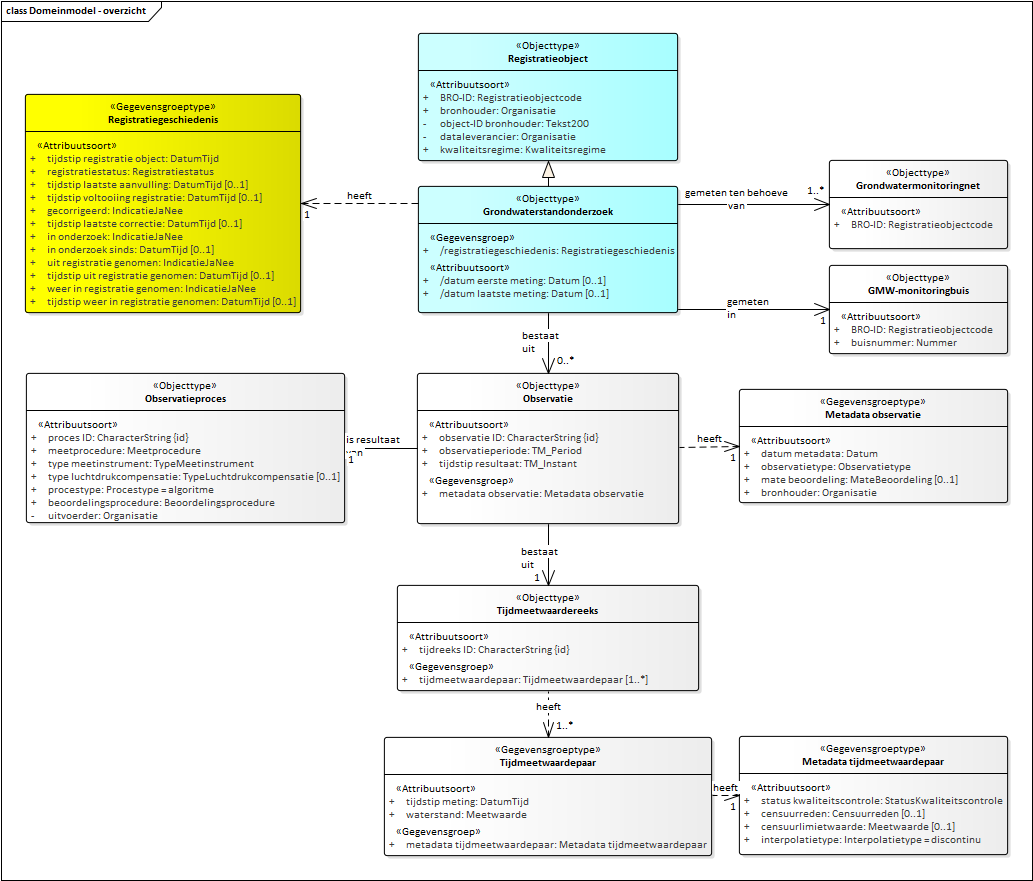
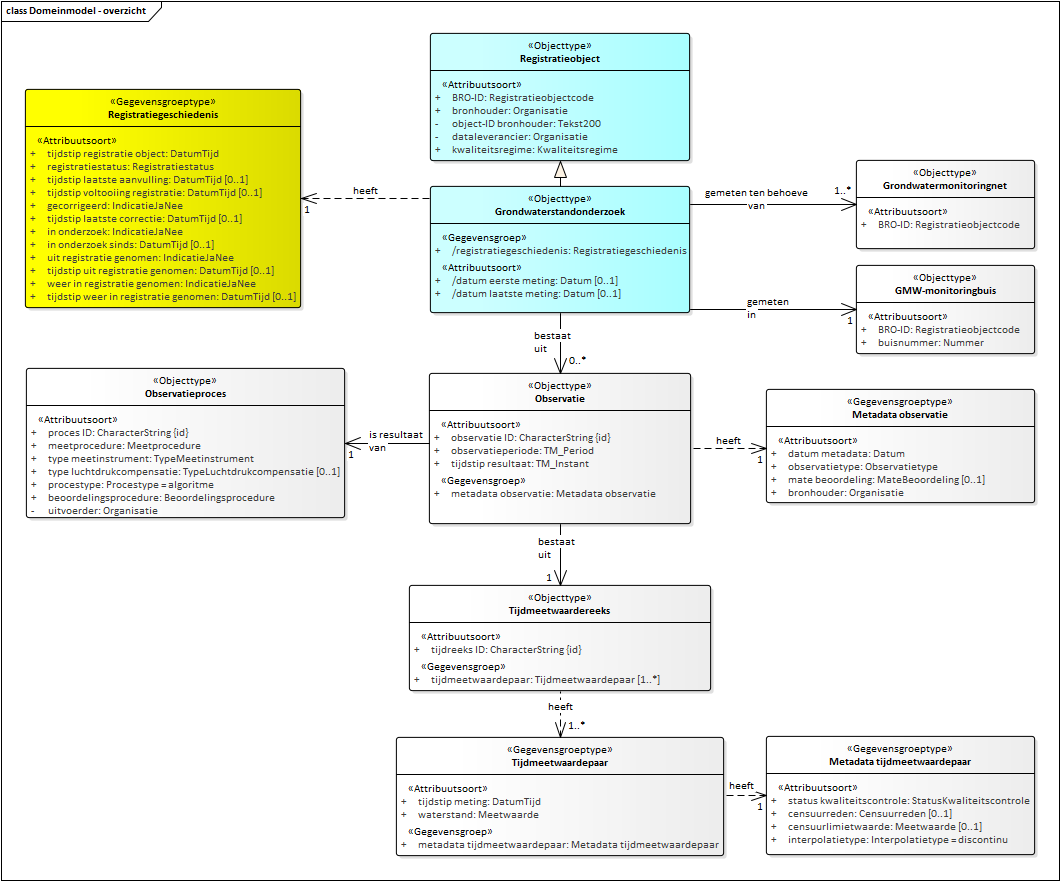
Conceptualmodel-GrondwaterstandonderzoekGLD-0.9-3-20191003-20191022-144403

diff --git a/data/GLD-cat.msword.html b/data/GLD-cat.msword.html
@@ -13,7 +13,7 @@
    <body>
       <p>Conceptual model/Grondwaterstandonderzoek (GLD)/20191003</p>
       <p>Imvertor: 1.55.2</p>
-      <p>Model release: Conceptualmodel-GrondwaterstandonderzoekGLD-0.9-3-20191003-20191022-141215</p>
+      <p>Model release: Conceptualmodel-GrondwaterstandonderzoekGLD-0.9-3-20191003-20191022-144403</p>
       <hr>
       <section>
          <h1>Artikel 1 Definitie van registratieobject, entiteiten en attributen</h1>
@@ -3288,17 +3288,17 @@
       <section id="" level="3">
          <h1>Artikel 3 Het domeinmodel</h1>
          <div class="imageinfo overview"><img src="Images/EAID_08E27657_5603_4b75_BB8B_47B282A97D63.png" usemap="#imagemap-EAID_08E27657_5603_4b75_BB8B_47B282A97D63"><map name="imagemap-EAID_08E27657_5603_4b75_BB8B_47B282A97D63">
-               <area shape="rect" coords="26,523,345,373" alt="" href="#graph_EAID_60FD1126_3C17_4798_955B_1E516F7A0B33">
-               <area shape="rect" coords="739,855,1008,736" alt="" href="#graph_EAID_734CD3EC_5E0A_4b12_89F5_AF8104ECF41F">
-               <area shape="rect" coords="397,691,699,585" alt="" href="#graph_EAID_590167CC_D7A2_4abb_8672_8592B1DF1842">
-               <area shape="rect" coords="417,524,679,373" alt="" href="#graph_EAID_665112EA_A39D_4ff0_BC95_CDDD3C5314EE">
-               <area shape="rect" coords="829,249,1008,160" alt="" href="#graph_EAID_68FD3B87_BA7B_485e_A5DC_4804CB98C818">
-               <area shape="rect" coords="384,856,712,737" alt="" href="#graph_EAID_5FC959F0_5ED2_47e7_8C6C_68C408128425">
-               <area shape="rect" coords="25,313,301,94" alt="" href="#graph_EAID_0D009A59_1E9A_4fc2_867A_9006A9464AA7">
-               <area shape="rect" coords="739,503,1008,389" alt="" href="#graph_EAID_2931B2EB_8861_47e1_B587_ADACE12C97F7">
-               <area shape="rect" coords="829,354,1008,265" alt="" href="#graph_EAID_3337CDCE_0A5D_4aee_AEB0_14AF7652B102">
-               <area shape="rect" coords="418,313,678,186" alt="" href="#graph_EAID_5876720F_795D_40b5_82B8_BC782B71FA3A">
-               <area shape="rect" coords="418,161,678,33" alt="" href="#graph_EAID_04FC4CF0_BE4E_421a_A62C_E3F00BED26A0"></map><p><b>Domeinmodel</b></p>
+               <area shape="rect" coords="26,518,345,368" alt="" href="#graph_EAID_60FD1126_3C17_4798_955B_1E516F7A0B33">
+               <area shape="rect" coords="766,855,1035,736" alt="" href="#graph_EAID_734CD3EC_5E0A_4b12_89F5_AF8104ECF41F">
+               <area shape="rect" coords="409,691,711,585" alt="" href="#graph_EAID_590167CC_D7A2_4abb_8672_8592B1DF1842">
+               <area shape="rect" coords="429,524,691,373" alt="" href="#graph_EAID_665112EA_A39D_4ff0_BC95_CDDD3C5314EE">
+               <area shape="rect" coords="856,249,1035,160" alt="" href="#graph_EAID_68FD3B87_BA7B_485e_A5DC_4804CB98C818">
+               <area shape="rect" coords="396,856,724,737" alt="" href="#graph_EAID_5FC959F0_5ED2_47e7_8C6C_68C408128425">
+               <area shape="rect" coords="25,308,301,89" alt="" href="#graph_EAID_0D009A59_1E9A_4fc2_867A_9006A9464AA7">
+               <area shape="rect" coords="766,503,1035,389" alt="" href="#graph_EAID_2931B2EB_8861_47e1_B587_ADACE12C97F7">
+               <area shape="rect" coords="856,354,1035,265" alt="" href="#graph_EAID_3337CDCE_0A5D_4aee_AEB0_14AF7652B102">
+               <area shape="rect" coords="430,313,690,186" alt="" href="#graph_EAID_5876720F_795D_40b5_82B8_BC782B71FA3A">
+               <area shape="rect" coords="430,161,690,33" alt="" href="#graph_EAID_04FC4CF0_BE4E_421a_A62C_E3F00BED26A0"></map><p><b>Domeinmodel</b></p>
          </div>
       </section>
    </body>
